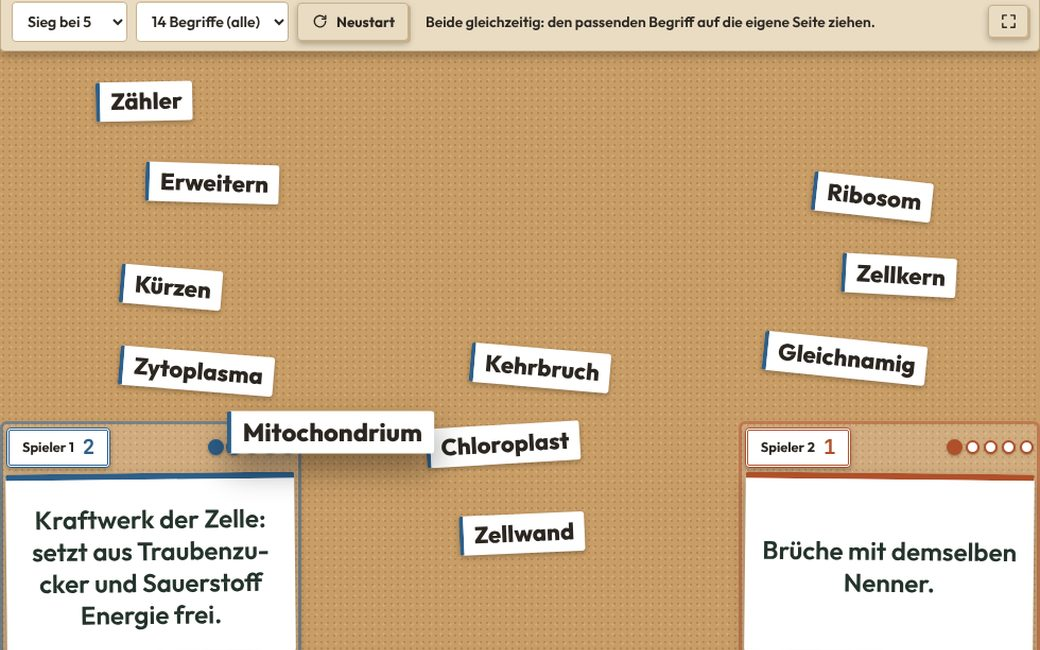
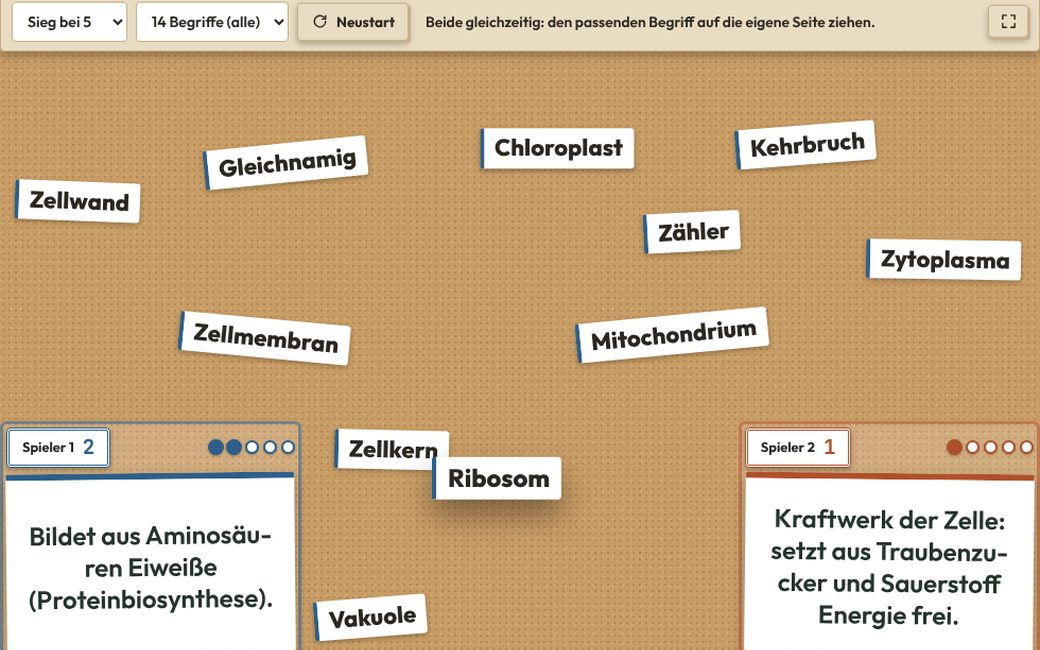
Definitions Derby Duell: Begriffe verstreut statt in Reihen, ohne Überlappung
Jeder Zettel bekommt einen ausgelosten freien Platz (feines Netz,
zufällig unter den gut freien), ohne die Ecken mit den Definitionen.
Nachrückende Begriffe kommen in eine Lücke, die anderen bleiben liegen.

Claude-Session: https://claude.ai/code/session_01SoWN1myh5kfkmRLqmgqVbE

diff --git a/MPSkills/tools/DefinitionsDerby/tool.js b/MPSkills/tools/DefinitionsDerby/tool.js
@@ -74,7 +74,7 @@
 (function () {
   'use strict';
 
-  const V = '20261029h';
+  const V = '20261029i';
   const BASE = 'tools/DefinitionsDerby/';
   const MAX_SHARED = 20;          // data.shared muss in 8 KB passen
   const LEVELS = ['neu', 'unsicher', 'teilweise', 'sicher'];
@@ -1427,8 +1427,8 @@
     const r = () => Math.random() * 2 - 1;
     du = {
       goal: DU_GOALS.includes(goal) ? goal : 5, size: sz, n: pool.length, opts,
-      // jx/jy/rot: fester Versatz je Platz, damit es durcheinander aussieht und beim Drehen des Tablets bleibt
-      slots: pool.slice(0, sz).map((c, i) => ({ i, c, jx: r(), jy: r(), rot: r() * 7 })),
+      // rot: leicht schräg; x/y: Mitte des Zettels im Brett (duLayout/duPlace)
+      slots: pool.slice(0, sz).map((c, i) => ({ i, c, rot: r() * 6, x: 0, y: 0 })),
       rest: pool.slice(sz),
       p: { 1: { card: null, prev: null, score: 0, lock: 0 }, 2: { card: null, prev: null, score: 0, lock: 0 } },
       log: [], drag: new Map(), state: 'ready', timers: []
@@ -1489,66 +1489,136 @@
     ? '<span class="dd-duchip" id="ddDuC' + s.i + '" data-slot="' + s.i + '"' + (demo ? ' data-cid="' + E(s.c.id) + '"' : '') + ' style="--r:' + s.rot.toFixed(1) + 'deg"><span class="dd-duchip__p">' + E(s.c.t) + '</span></span>'
     : '<span class="dd-duchip is-gone" id="ddDuC' + s.i + '" data-slot="' + s.i + '"></span>';
 
-  /* Plätze auf einem Raster über das ganze Brett (Begriffe sind breiter
-     als hoch), ohne die beiden Ecken unten mit den Definitionen; dazu
-     der feste Versatz je Platz. Eine Schrift für alle: so groß, dass
-     das breiteste Wort noch in eine Zeile passt (gemessen bei 100 px).
-     Spalten und Reihen sind die, bei denen diese Schrift am größten
-     wird; wer dann nicht passt, wird einzeln kleiner. */
-  function duLayout() {
+  /* Die Begriffe liegen verstreut über das Brett, ohne sich zu
+     überlappen und ohne die beiden Ecken unten mit den Definitionen
+     (Sönke 29.10.2026: „nicht in Reihen, einfach auf dem Feld
+     verteilt“). Eine Schrift für alle: so groß, dass alle Zettel
+     zusammen höchstens DU_FILL der freien Fläche belegen; dann wird
+     Zettel für Zettel ein freier Platz ausgelost — von mehreren
+     freien Kandidaten der, der am weitesten von den anderen weg ist,
+     damit es sich gleichmäßig verteilt. Passt nicht alles, wird die
+     Schrift kleiner. Ein neuer Begriff (duPlace) kommt in eine Lücke,
+     die anderen bleiben liegen. Ändert sich nur die Größe des Bretts
+     wenig (Adressleiste), werden die Plätze mitgezogen statt neu
+     gelost. */
+  const DU_FILL = 0.58, DU_GAP = 10;
+  function duGeom() {
     const pool = root && root.querySelector('#ddDuPool');
-    if (!du || !pool) return;
-    const w = pool.clientWidth || 400, h = pool.clientHeight || 400, n = du.slots.length;
-    const pr = pool.getBoundingClientRect();
-    const PAD = 8;
+    if (!du || !pool) return null;
+    const w = pool.clientWidth || 400, h = pool.clientHeight || 400, pr = pool.getBoundingClientRect();
     const holes = [1, 2].map(k => root.querySelector('#ddDu' + k)).filter(Boolean).map(el => {
       const r = el.getBoundingClientRect();
-      return { x0: r.left - pr.left - PAD, y0: r.top - pr.top - PAD, x1: r.right - pr.left + PAD, y1: r.bottom - pr.top + PAD };
+      return { x0: r.left - pr.left, y0: r.top - pr.top, x1: r.right - pr.left, y1: r.bottom - pr.top };
     });
-    const probe = document.createElement('span');
-    probe.className = 'dd-duchip__p';
-    probe.style.cssText = 'position:absolute;visibility:hidden;white-space:nowrap;font-size:100px';
-    pool.appendChild(probe);
-    let wide = 1;
-    for (const s of du.slots) if (s.c) for (const x of s.c.t.split(/\s+/)) { probe.textContent = x; wide = Math.max(wide, probe.offsetWidth); }
-    probe.remove();
-    const cellsOf = (c, r) => {
-      const cw = w / c, ch = h / r, out = [];
-      for (let y = 0; y < r; y++) for (let x = 0; x < c; x++) {
-        // frei, wenn die innere Hälfte der Zelle keine Ecke berührt
-        const cx0 = (x + 0.15) * cw, cx1 = (x + 0.85) * cw, cy0 = (y + 0.2) * ch, cy1 = (y + 0.8) * ch;
-        if (!holes.some(o => cx1 > o.x0 && cx0 < o.x1 && cy1 > o.y0 && cy0 < o.y1)) out.push({ x: (x + 0.5) * cw, y: (y + 0.5) * ch });
-      }
-      return out;
-    };
-    const fontFor = (c, r) => Math.min(22, h / r / 2.4, (w / c * 0.92 - 24) / (wide / 100));
-    let best = null;
-    for (let c = 1; c <= Math.min(n, 10); c++) {
-      for (let r = Math.ceil(n / c); r <= n + 2; r++) {
-        const cells = cellsOf(c, r);
-        if (cells.length < n) continue;
-        const f = fontFor(c, r);
-        if (!best || f > best.f + 0.3) best = { c, r, f, cells };
-        break;
+    return { pool, w, h, holes };
+  }
+  /* Schrift setzen und den Zettel messen (Drehung als Rand dazu). */
+  function duMeasure(G, s, font) {
+    const el = G.pool.querySelector('#ddDuC' + s.i);
+    if (!el || !s.c) return null;
+    const p = el.querySelector('.dd-duchip__p');
+    const maxW = Math.min(G.w * 0.34, 280);
+    el.style.maxWidth = maxW + 'px';
+    p.style.fontSize = font + 'px';
+    if (p.scrollWidth > el.clientWidth) fitText(p, el, font, 9);   // ein einzelnes sehr langes Wort
+    const sin = Math.abs(Math.sin(s.rot * Math.PI / 180));
+    const bw = el.offsetWidth, bh = el.offsetHeight;
+    return { el, w: bw + bh * sin, h: bh + bw * sin };
+  }
+  const duHit = (a, b) => a.x0 < b.x1 && a.x1 > b.x0 && a.y0 < b.y1 && a.y1 > b.y0;
+  /* Einen freien Platz für einen Zettel (m = Maße) suchen; taken = Rechtecke
+     der anderen. Geprüft wird ein feines Netz möglicher Mitten (mit
+     zufälligem Versatz); genommen wird zufällig einer der Plätze, die
+     fast so weit von allen anderen weg sind wie der beste. */
+  function duSpot(G, m, taken) {
+    const hw = m.w / 2 + DU_GAP / 2, hh = m.h / 2 + DU_GAP / 2;
+    if (G.w < 2 * hw || G.h < 2 * hh) return null;
+    const step = Math.max(8, Math.min(G.w, G.h) / 40);
+    const ox = Math.random() * step, oy = Math.random() * step;
+    const cand = [];
+    let bestD = 0;
+    for (let y = hh + oy; y <= G.h - hh; y += step) {
+      for (let x = hw + ox; x <= G.w - hw; x += step) {
+        const r = { x0: x - hw, y0: y - hh, x1: x + hw, y1: y + hh };
+        if (G.holes.some(o => duHit(r, o)) || taken.some(o => duHit(r, o))) continue;
+        // Abstand zum nächsten Zettel (Rand zu Rand), die Wand zählt halb
+        let d = Math.min(x - hw, G.w - hw - x, y - hh, G.h - hh - y) * 2 + 40;
+        for (const o of taken) d = Math.min(d, Math.max(o.x0 - r.x1, r.x0 - o.x1, o.y0 - r.y1, r.y0 - o.y1, 0) + 1);
+        cand.push({ x, y, r, d });
+        if (d > bestD) bestD = d;
       }
     }
-    if (!best) best = { c: 1, r: n, f: 12, cells: cellsOf(1, n) };
-    const cw = w / best.c, ch = h / best.r;
-    const font = Math.max(12, best.f);
-    // gibt es mehr freie Plätze als Begriffe, gleichmäßig verteilt nehmen
-    const pick = i => best.cells[Math.min(best.cells.length - 1, Math.floor(i * best.cells.length / n))];
-    for (const s of du.slots) {
-      const el = pool.querySelector('#ddDuC' + s.i);
-      if (!el) continue;
-      const cell = pick(s.i) || { x: w / 2, y: h / 2 };
-      el.style.left = (cell.x + s.jx * 0.12 * cw) + 'px';
-      el.style.top = (cell.y + s.jy * 0.14 * ch) + 'px';
-      el.style.maxWidth = (cw * 0.92) + 'px';
-      el.style.maxHeight = (ch * 0.84) + 'px';
-      const p = el.querySelector('.dd-duchip__p');
-      if (p) { p.style.fontSize = font + 'px'; if (el.scrollHeight > ch * 0.84 || p.scrollWidth > cw * 0.92) fitText(p, el, font, 9); }
+    if (!cand.length) return null;
+    const good = cand.filter(c => c.d >= bestD * 0.6);
+    return good[Math.floor(Math.random() * good.length)];
+  }
+  function duSet(m, s, x, y) {
+    s.x = x; s.y = y;
+    m.el.style.left = x + 'px';
+    m.el.style.top = y + 'px';
+  }
+  function duLayout() {
+    const G = duGeom();
+    if (!G) return;
+    const live = du.slots.filter(s => s.c);
+    // Nur etwas größer/kleiner geworden: Plätze mitziehen statt neu losen.
+    if (du.lw && Math.abs(G.w / du.lw - 1) < 0.2 && Math.abs(G.h / du.lh - 1) < 0.2) {
+      const fx = G.w / du.lw, fy = G.h / du.lh;
+      for (const s of live) {
+        const m = duMeasure(G, s, du.font);
+        if (m) duSet(m, s, s.x * fx, s.y * fy);
+      }
+      du.lw = G.w; du.lh = G.h;
+      for (const k of [1, 2]) duFitDef(k);
+      return;
     }
+    const free = G.w * G.h - G.holes.reduce((a, o) => a + (o.x1 - o.x0) * (o.y1 - o.y0), 0);
+    let font = 22, placed = false, ms = [];
+    for (;;) {
+      ms = live.map(s => ({ s, m: duMeasure(G, s, font) })).filter(x => x.m);
+      const area = ms.reduce((a, x) => a + (x.m.w + DU_GAP) * (x.m.h + DU_GAP), 0);
+      if (area > free * DU_FILL && font > 11) { font = Math.max(11, font * Math.max(0.85, Math.sqrt(free * DU_FILL / area))); continue; }
+      // große Zettel zuerst, sonst finden sie am Ende keinen Platz mehr
+      ms.sort((a, b) => b.m.w * b.m.h - a.m.w * a.m.h);
+      for (let tries = 0; tries < 3 && !placed; tries++) {
+        const taken = [], spots = [];
+        placed = ms.every(x => { const sp = duSpot(G, x.m, taken); if (!sp) return false; taken.push(sp.r); spots.push(sp); return true; });
+        if (placed) ms.forEach((x, i) => duSet(x.m, x.s, spots[i].x, spots[i].y));
+      }
+      if (placed || font <= 11) break;
+      font = Math.max(11, font * 0.92);
+    }
+    if (!placed) {   // zu wenig Platz (sehr kleines Brett): so viele wie möglich frei, der Rest notfalls überlappend
+      const taken = [];
+      for (const x of ms) {
+        const sp = duSpot(G, x.m, taken);
+        if (sp) { taken.push(sp.r); duSet(x.m, x.s, sp.x, sp.y); }
+        else duSet(x.m, x.s, x.m.w / 2 + Math.random() * Math.max(1, G.w - x.m.w), x.m.h / 2 + Math.random() * Math.max(1, G.h * 0.6 - x.m.h));
+      }
+    }
+    du.font = font; du.lw = G.w; du.lh = G.h;
     for (const k of [1, 2]) duFitDef(k);
+  }
+  /* Ein neuer Begriff in eine Lücke; die anderen bleiben liegen. */
+  function duPlace(s) {
+    const G = duGeom();
+    if (!G || !s.c || !du.font) { duLayout(); return; }
+    const taken = [];
+    for (const o of du.slots) {
+      if (o === s || !o.c) continue;
+      const el = G.pool.querySelector('#ddDuC' + o.i);
+      if (!el || el.classList.contains('is-away')) continue;
+      const sin = Math.abs(Math.sin(o.rot * Math.PI / 180)), bw = el.offsetWidth, bh = el.offsetHeight;
+      const hw = (bw + bh * sin) / 2 + DU_GAP / 2, hh = (bh + bw * sin) / 2 + DU_GAP / 2;
+      taken.push({ x0: o.x - hw, y0: o.y - hh, x1: o.x + hw, y1: o.y + hh });
+    }
+    for (let f = du.font; f >= 10; f *= 0.88) {
+      const m = duMeasure(G, s, f);
+      if (!m) return;
+      const sp = duSpot(G, m, taken);
+      if (sp) { duSet(m, s, sp.x, sp.y); return; }
+    }
+    duLayout();
   }
   function duFitDef(k) {
     const box = root.querySelector('#ddDuDef' + k);
@@ -1688,14 +1758,13 @@
       side.classList.remove('is-ok'); void side.offsetWidth; side.classList.add('is-ok');
       const s = g.s;
       s.c = d.rest.length ? d.rest.shift() : null;
-      s.rot = (Math.random() * 2 - 1) * 7;
+      s.rot = (Math.random() * 2 - 1) * 6;
       duLater(d, 320, () => {
         const old = root.querySelector('#ddDuC' + s.i);
         if (!old) return;
         old.outerHTML = duChipHTML(s);
         const nu = root.querySelector('#ddDuC' + s.i);
-        if (nu && s.c) nu.classList.add('is-new');
-        duLayout();
+        if (nu && s.c) { nu.classList.add('is-new'); duPlace(s); }
       });
       if (P.score >= d.goal) { duPaintSide(k); duWin(k); return; }
       duNewCard(k);

diff --git a/MPSkills/index.html b/MPSkills/index.html
@@ -555,7 +555,7 @@
      das Drehbuch je Skill; das Werkzeug selbst (137 KB) kommt erst,
      wenn jemand eine Kachel öffnet — und mit ihm lib/tool.js. Wer
      nur die Liste anschaut, lädt nichts davon. -->
-<script src="lib/preview.js?v=20261029a"></script>
+<script src="lib/preview.js?v=20261029b"></script>
 <script src="preview/wordcloud.js?v=20260819d"></script>
 <script src="preview/neurolab.js?v=20260819b"></script>
 <script src="preview/caesar.js?v=20260820"></script>

diff --git a/MPSkills/lib/preview.js b/MPSkills/lib/preview.js
@@ -415,7 +415,7 @@
     if (window.MPTool) return Promise.resolve();
     return new Promise((resolve, reject) => {
       const s = document.createElement('script');
-      s.src = 'lib/tool.js?v=20261029h';
+      s.src = 'lib/tool.js?v=20261029i';
       s.onload  = () => window.MPTool ? resolve() : reject(new Error('MPTool fehlt'));
       s.onerror = () => reject(new Error('lib/tool.js nicht gefunden'));
       document.head.appendChild(s);

diff --git a/MPSkills/lib/tool.js b/MPSkills/lib/tool.js
@@ -105,7 +105,7 @@
        neue Reliefkarte von Wordisland unter — der Umbau war fertig,
        auf dem Bildschirm stand die alte Karte, und es sah aus, als
        wäre nichts geschehen. */
-    const v = '?v=20261029h';
+    const v = '?v=20261029i';
 
     loading[id] = new Promise((resolve, reject) => {
       // Das Stylesheet wird nicht abgewartet: ein Werkzeug, das auf

diff --git a/MPSkills/j.html b/MPSkills/j.html
@@ -77,7 +77,7 @@
      dazuholen" raus ist. Die Tür gehört der Tafel. -->
 <script src="lib/room.js?v=20261024b"></script>
 <script src="lib/icons.js?v=20261023a"></script>
-<script src="lib/tool.js?v=20261029h"></script>
+<script src="lib/tool.js?v=20261029i"></script>
 <script src="door-login.js?v=20261017b"></script>
 <script src="j.js?v=20261024b"></script>
 </body>

diff --git a/MPSkills/lehrer.html b/MPSkills/lehrer.html
@@ -55,7 +55,7 @@
 <script src="lib/qr.js?v=20260817"></script>
 <script src="lib/room.js?v=20261024b"></script>
 <script src="lib/icons.js?v=20261023a"></script>
-<script src="lib/tool.js?v=20261029h"></script>
+<script src="lib/tool.js?v=20261029i"></script>
 <script src="tools.js?v=20261029a"></script>
 <script src="lehrer.js?v=20261024"></script>
 </body>

diff --git a/MPSkills/derby.html b/MPSkills/derby.html
@@ -44,7 +44,7 @@
 <script src="../avatars.js?v=20261028a"></script>
 <script src="lib/userbar.js?v=20261021"></script>
 <script src="lib/profilemodal.js?v=20261024"></script>
-<script src="lib/tool.js?v=20261029h"></script>
+<script src="lib/tool.js?v=20261029i"></script>
 <script src="derby.js?v=20261026b"></script>
 </body>
 </html>

diff --git a/MPSkills/insel.html b/MPSkills/insel.html
@@ -56,7 +56,7 @@
 <script src="../avatars.js?v=20261028a"></script>
 <script src="lib/userbar.js?v=20261020"></script>
 <script src="lib/room.js?v=20261024b"></script>
-<script src="lib/tool.js?v=20261029h"></script>
+<script src="lib/tool.js?v=20261029i"></script>
 <script src="insel.js?v=20260923"></script>
 </body>
 </html>

diff --git a/MPSkills/tools/DefinitionsDerby/CLAUDE.md b/MPSkills/tools/DefinitionsDerby/CLAUDE.md
@@ -33,7 +33,7 @@ Eigenes Kleid statt MPSkills-Optik, „Pappe und Papier zum Anfassen“, nur in 
 - **Geteilte Spiele**: `skill_room_state.data.games = ['cards','overview','memory']` neben `shared` (keine Migration). Fehlt `games` (Räume von vor Etappe 2), gelten Karteikarten + Übersicht als geteilt (`DEFAULT_GAMES`), damit bestehende Räume weiterlernen.
 - **In der Lernform** (`screen = 'play'`, `opened = {stacks, cards, game}`): oben „Stapel:“ mit allen Stapeln als Schalter (s. o.). Karten mehrerer Stapel heißen `<stapel>:<karte>`; `prog` hält alle, gespeichert/synchronisiert wird weiter **je Stapel** (`buildProg`/`stackProg`, `dirty`-Menge für `dd_prog_put`). Karteikarte und Übersicht zeigen bei mehreren Stapeln die Herkunft.
 - **Memory** nach Sönkes „Evolutionsfaktoren“-Memory (Aufbau gleich, Optik Kork & Karton): links Begriffe, rechts Definitionen, Pappe-Rücken mit „?“-Stempel (Begriffe blau `--dd-tk`, Definitionen ocker `--dd-dk`). Je Zug eine Karte je Seite; beide fliegen groß in die Mitte (`startReview`), „Ja, Paar!“/„Nein“ (Entscheidung Sönke 27.10.2026): Paar + Ja = Punkt, Karten fliegen zum Punktestand, gleiche Person nochmal; Paar + Nein und kein Paar + Nein = zurück, umdrehen, Wechsel, **mit demselben neutralen Satz** (kein Hinweis, ob es doch ein Paar war); kein Paar + Ja = Minuspunkt (nur zu zweit, Stand kann negativ werden), Wechsel. Endstand nennt Punkte, nicht Paare. Allein (Paare + Züge) oder zu zweit; 6/8/12/18/24 Paare bzw. alle (höchstens 24). Gleicher Begriff aus zwei Stapeln zählt nur einmal und gilt als Paar. Text steht erst nach dem Aufdecken im DOM, `fitText` passt ihn ein; Spalten je nach Platz (`memCols`), Vollbild-Knopf (nur `#ddMem`). Takte kurz (`FLY_MS`/`FLIP_MS`/`HOLD_MS`, Ergebnis `SAY_OK_MS`/`SAY_NO_MS`); Tippen ins Spielfeld während Karten drehen/fliegen überspringt bis zur nächsten Entscheidung (`mmWait`/`mmSkip`, Klasse `.is-fast` schaltet Übergänge ab; Leiste oben bleibt normal bedienbar). **Memory schreibt keinen Lernstand** (zwei Personen, ein Konto).
-- **Duell** (Sönke 29.10.2026, `duel`, Gruppe „Gemeinsam an einem Gerät“, Abschnitt „DUELL“ in `tool.js`/`tool.css`, Klassen `dd-du…`): zwei Personen **gleichzeitig** an einem Multi-Touch-Tablet, **nebeneinander** (links Spieler 1, rechts Spieler 2, kein Gegenüber-Modus). Die Begriffe liegen als schräge Zettel durcheinander über das ganze Brett, die **Definitionen stehen klein unten links und unten rechts** (Sönke 29.10.2026: „nicht so viel Platz wegnehmen“; `.dd-duside` absolut in den Ecken, ca. 29 % × 40 %, am Telefon 48 % × 36 %; ohne Beschriftung „Definition“ und ohne „hierher ziehen“ — die ganze Ecke ist die Ablage). `duLayout`: Raster über das ganze Brett, Zellen, die eine Ecke berühren, fallen weg; EINE Schrift für alle, so groß, dass das breiteste Wort in eine Zeile passt (gemessen bei 100 px); Spalten/Reihen sind die mit der größten Schrift; fester Versatz `jx/jy/rot` je Platz (`du.slots`). Standard **alle bis 30 Begriffe** (Auswahl 12/20/30 bzw. alle, `DU_SIZES`/`DU_MAX`; Sönke: „lass mal 30 Begriffe testen“), gleicher Begriff aus zwei Stapeln zählt einmal (`memPool`). Jede Seite hat ihre **eigene Definition, nie dieselbe wie drüben** (`duNewCard`, möglichst nicht die eben gehabte). Ziehen mit Zeiger-Events, **je `pointerId` ein Begriff** (`du.drag`, `setPointerCapture`), `touch-action: none` auf dem Brett; abgerechnet wird nach der **Seite, auf der der Begriff landet**, nicht nach dem Finger. Richtig → Punkt, Begriff fliegt in die Definition und verschwindet, sein Platz bekommt einen aus dem Rest (`du.rest`), neue Definition. Falsch → Begriff wackelt zurück, **andere Definition**, Seite **`DU_LOCK_MS` = 1,2 s gesperrt** (rotes „Falsch!“ mit ablaufendem Balken; dort Abgelegtes springt ohne Strafe zurück). Sieg bei **5** (einstellbar 3/5/8/10, `DU_GOALS`), Punkte als Kreise an jeder Seite; vorher „Bereit?“ + Countdown 3-2-1 (`duStart`), damit beide gleich anfangen. Ende: Sieger + Liste aller Definitionen der Runde mit Begriff und wer ihn gefunden hat („nicht gefunden“ bei nur falschen Versuchen). Geht kein Begriff mehr, gewinnt, wer vorn liegt. Mit Maus geht es auch (einer nach dem anderen). Vollbild-Knopf wie im Memory (`#ddDuel`). **Schreibt keinen Lernstand** (wie Memory). `pullProg` zeichnet das Duell nicht neu. Bildschirmfoto `img/spiel-duell.jpg`.
+- **Duell** (Sönke 29.10.2026, `duel`, Gruppe „Gemeinsam an einem Gerät“, Abschnitt „DUELL“ in `tool.js`/`tool.css`, Klassen `dd-du…`): zwei Personen **gleichzeitig** an einem Multi-Touch-Tablet, **nebeneinander** (links Spieler 1, rechts Spieler 2, kein Gegenüber-Modus). Die Begriffe liegen als schräge Zettel durcheinander über das ganze Brett, die **Definitionen stehen klein unten links und unten rechts** (Sönke 29.10.2026: „nicht so viel Platz wegnehmen“; `.dd-duside` absolut in den Ecken, ca. 29 % × 40 %, am Telefon 48 % × 36 %; ohne Beschriftung „Definition“ und ohne „hierher ziehen“ — die ganze Ecke ist die Ablage). **Verstreut, nicht in Reihen, ohne Überlappung** (Sönke 29.10.2026): `duLayout` setzt EINE Schrift für alle, so groß, dass alle Zettel zusammen höchstens `DU_FILL` (58 %) der freien Fläche belegen, und lost dann Zettel für Zettel (große zuerst) einen freien Platz aus (`duSpot`: feines Netz möglicher Mitten mit zufälligem Versatz, ohne die Ecken und andere Zettel plus `DU_GAP`; zufällig einer der Plätze, die fast so weit von den anderen weg sind wie der beste); passt nicht alles, wird die Schrift kleiner (bis 11 px, danach am Telefon notfalls überlappend). Ein nachrückender Begriff kommt mit `duPlace` in eine Lücke (notfalls kleiner), die anderen bleiben liegen; kleine Größenänderungen (Adressleiste) ziehen die Plätze mit statt neu zu losen (`du.lw/lh`). Je Zettel `rot` (±6°) und `x/y` in `du.slots`. Standard **alle bis 30 Begriffe** (Auswahl 12/20/30 bzw. alle, `DU_SIZES`/`DU_MAX`; Sönke: „lass mal 30 Begriffe testen“), gleicher Begriff aus zwei Stapeln zählt einmal (`memPool`). Jede Seite hat ihre **eigene Definition, nie dieselbe wie drüben** (`duNewCard`, möglichst nicht die eben gehabte). Ziehen mit Zeiger-Events, **je `pointerId` ein Begriff** (`du.drag`, `setPointerCapture`), `touch-action: none` auf dem Brett; abgerechnet wird nach der **Seite, auf der der Begriff landet**, nicht nach dem Finger. Richtig → Punkt, Begriff fliegt in die Definition und verschwindet, sein Platz bekommt einen aus dem Rest (`du.rest`), neue Definition. Falsch → Begriff wackelt zurück, **andere Definition**, Seite **`DU_LOCK_MS` = 1,2 s gesperrt** (rotes „Falsch!“ mit ablaufendem Balken; dort Abgelegtes springt ohne Strafe zurück). Sieg bei **5** (einstellbar 3/5/8/10, `DU_GOALS`), Punkte als Kreise an jeder Seite; vorher „Bereit?“ + Countdown 3-2-1 (`duStart`), damit beide gleich anfangen. Ende: Sieger + Liste aller Definitionen der Runde mit Begriff und wer ihn gefunden hat („nicht gefunden“ bei nur falschen Versuchen). Geht kein Begriff mehr, gewinnt, wer vorn liegt. Mit Maus geht es auch (einer nach dem anderen). Vollbild-Knopf wie im Memory (`#ddDuel`). **Schreibt keinen Lernstand** (wie Memory). `pullProg` zeichnet das Duell nicht neu. Bildschirmfoto `img/spiel-duell.jpg`.
 - Neues Spiel: Eintrag in `GAMES` (Gruppe, Texte, `min` Karten, `shot`), Mini-Bild in `MINI` (nur CSS, `.dd-mini--…`), Bildschirmfoto in `img/`, Zweig in `renderPane()`.
 
 ## Etappe 3: Insel — jeder Begriff ein Wesen (Entscheidung Sönke 27.10.2026)
